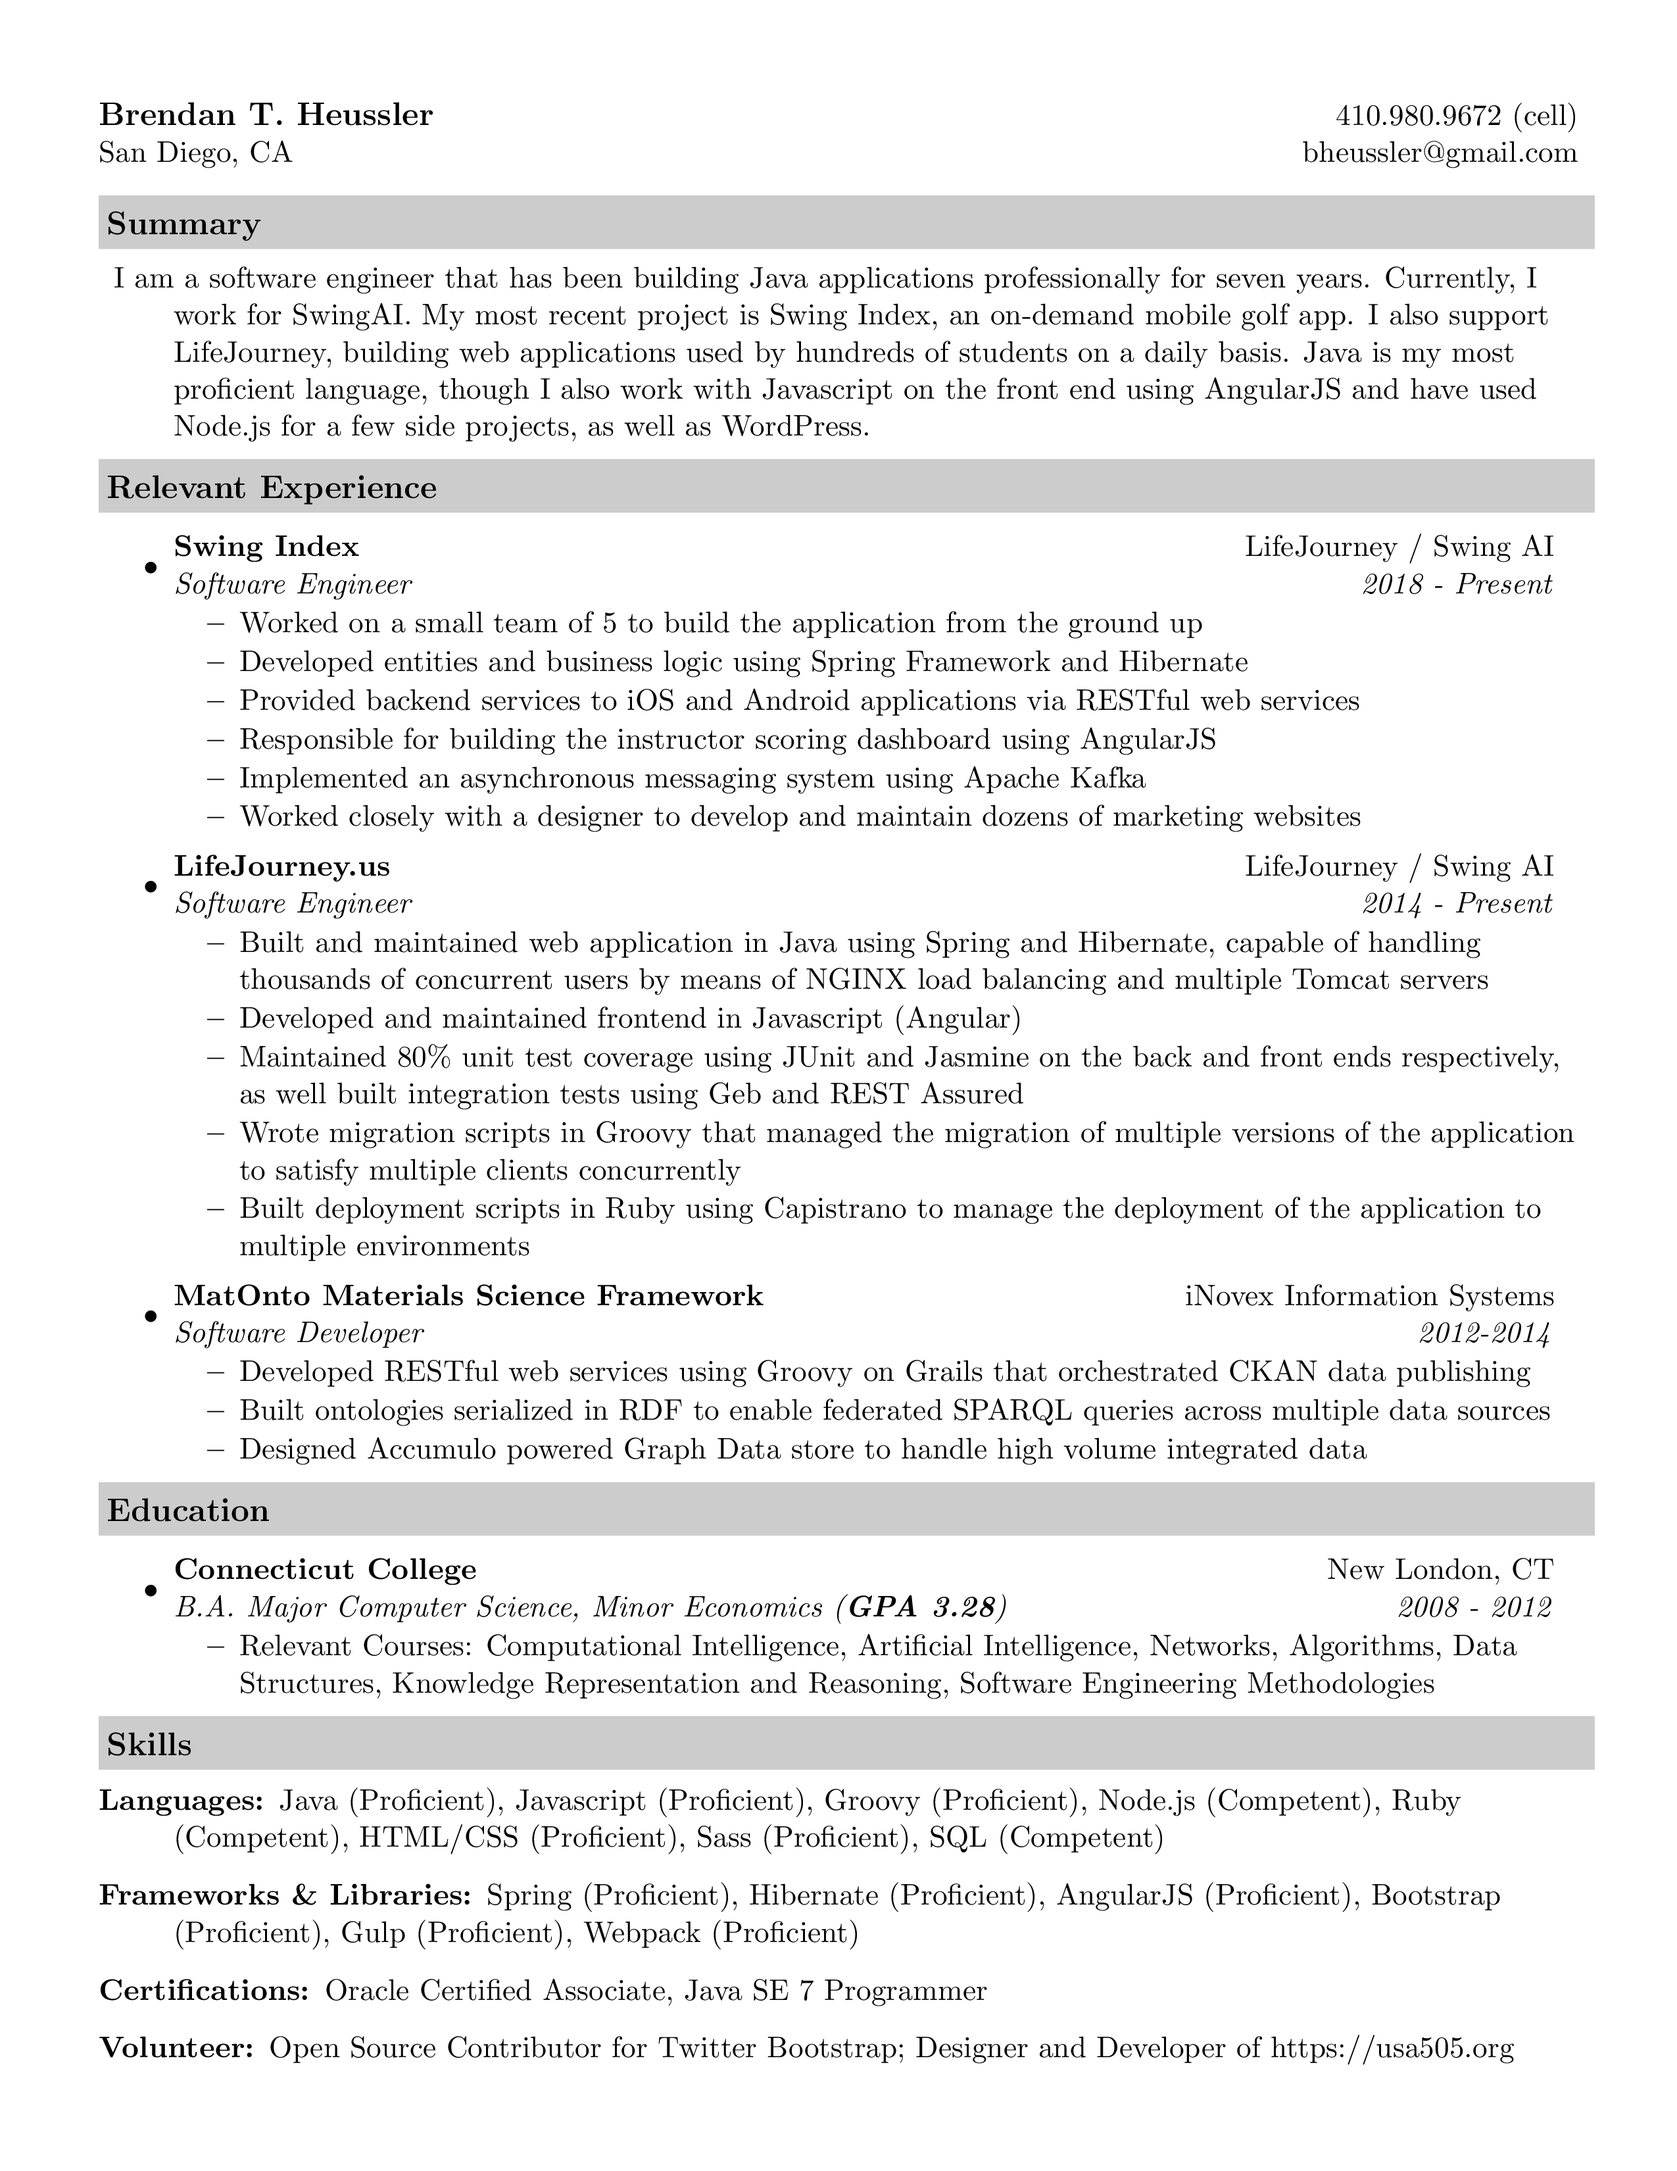
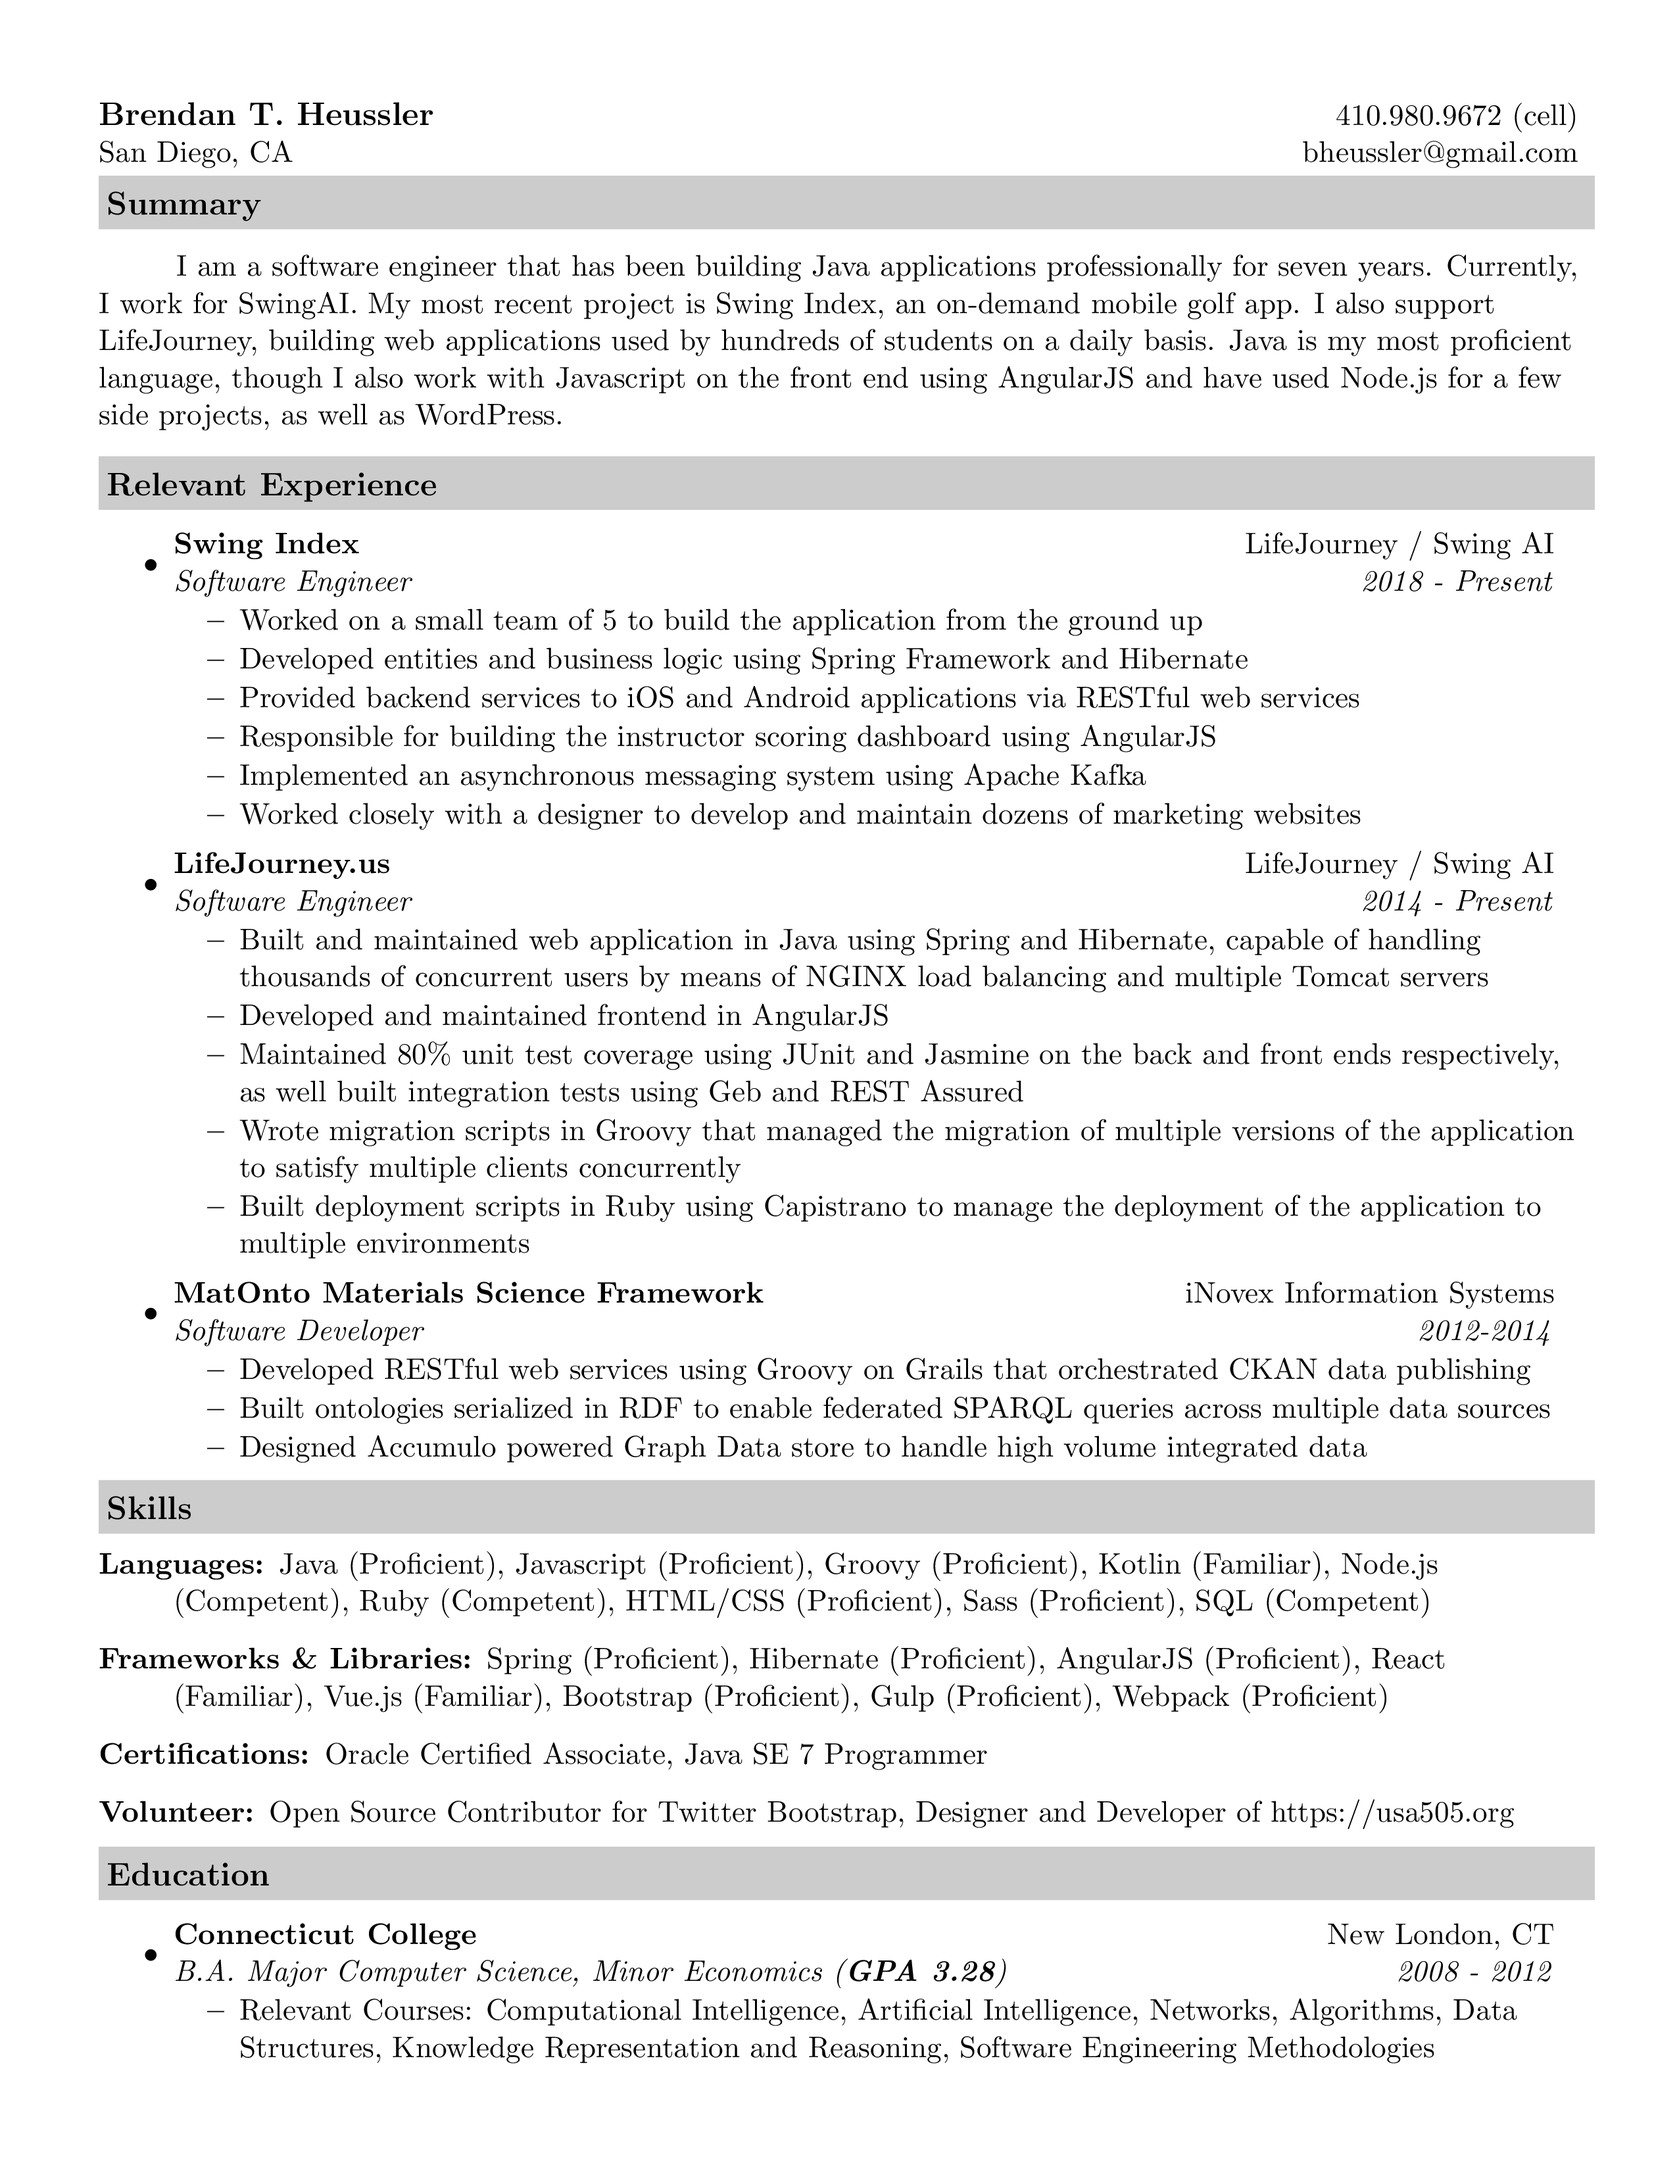
Indent summary and reorder skills & education

diff --git a/Brendan_Heussler_Resume.tex b/Brendan_Heussler_Resume.tex
@@ -29,10 +29,10 @@
 \newcommand{\resitem}[1]{\item #1 \vspace{-2pt}}
 \newcommand{\resheading}[1]{{\large \colorbox{mygrey}{\begin{minipage}{\textwidth}{\textbf{#1 \vphantom{p\^{E}}}}\end{minipage}}}}
 \newcommand{\ressubheading}[4]{
-\begin{tabular*}{7.0in}{l@{\extracolsep{\fill}}r}
-    \textbf{#1} & #2 \\
-    \textit{#3} & \textit{#4} \\
-\end{tabular*}\vspace{-6pt}}
+    \begin{tabular*}{7.0in}{l@{\extracolsep{\fill}}r}
+        \textbf{#1} & #2 \\
+        \textit{#3} & \textit{#4} \\
+    \end{tabular*}\vspace{-6pt}}
 %-----------------------------------------------------------
 
 
@@ -45,16 +45,17 @@
     \end{tabular*}
     \\
 
-    \vspace{0.1in}
 
     \resheading{Summary}
-    \begin{description}
-        \item
+
+    \vspace{3mm}
+    {\setlength{\parindent}{1cm}
         I am a software engineer that has been building Java applications professionally for seven years.
         Currently, I work for SwingAI. My most recent project is Swing Index, an on-demand mobile golf app.
         I also support LifeJourney, building web applications used by hundreds of students on a daily basis.
         Java is my most proficient language, though I also work with Javascript on the front end using AngularJS and have used Node.js for a few side projects, as well as WordPress.
-    \end{description}
+    }
+    \vspace{3mm}
 
     \resheading{Relevant Experience}
     \begin{itemize}
@@ -89,6 +90,18 @@
 
     \end{itemize}
 
+    \resheading{Skills}
+    \begin{description}
+        \item[Languages:]
+        Java (Proficient), Javascript (Proficient), Groovy (Proficient), Kotlin (Familiar), Node.js (Competent), Ruby (Competent), HTML/CSS (Proficient), Sass (Proficient), SQL (Competent)
+        \item[Frameworks \& Libraries:]
+        Spring (Proficient), Hibernate (Proficient), AngularJS (Proficient), React (Familiar), Vue.js (Familiar), Bootstrap (Proficient), Gulp (Proficient), Webpack (Proficient)
+        \item[Certifications:]
+        Oracle Certified Associate, Java SE 7 Programmer
+        \item[Volunteer:]
+        Open Source Contributor for Twitter Bootstrap, Designer and Developer of https://usa505.org
+    \end{description}
+
     \resheading{Education}
     \begin{itemize}
         \item
@@ -97,17 +110,5 @@
             \resitem{Relevant Courses: Computational Intelligence, Artificial Intelligence, Networks, Algorithms, Data Structures, Knowledge Representation and Reasoning, Software Engineering Methodologies}
         \end{itemize}
     \end{itemize}
-
-    \resheading{Skills}
-    \begin{description}
-        \item[Languages:]
-        Java (Proficient), Javascript (Proficient), Groovy (Proficient), Node.js (Competent), Ruby (Competent), HTML/CSS (Proficient), Sass (Proficient), SQL (Competent)
-        \item[Frameworks \& Libraries:]
-        Spring (Proficient), Hibernate (Proficient), AngularJS (Proficient), Bootstrap (Proficient), Gulp (Proficient), Webpack (Proficient)
-        \item[Certifications:]
-        Oracle Certified Associate, Java SE 7 Programmer
-        \item[Volunteer:]
-        Open Source Contributor for Twitter Bootstrap, Designer and Developer of https://usa505.org
-    \end{description}
 
 \end{document}
